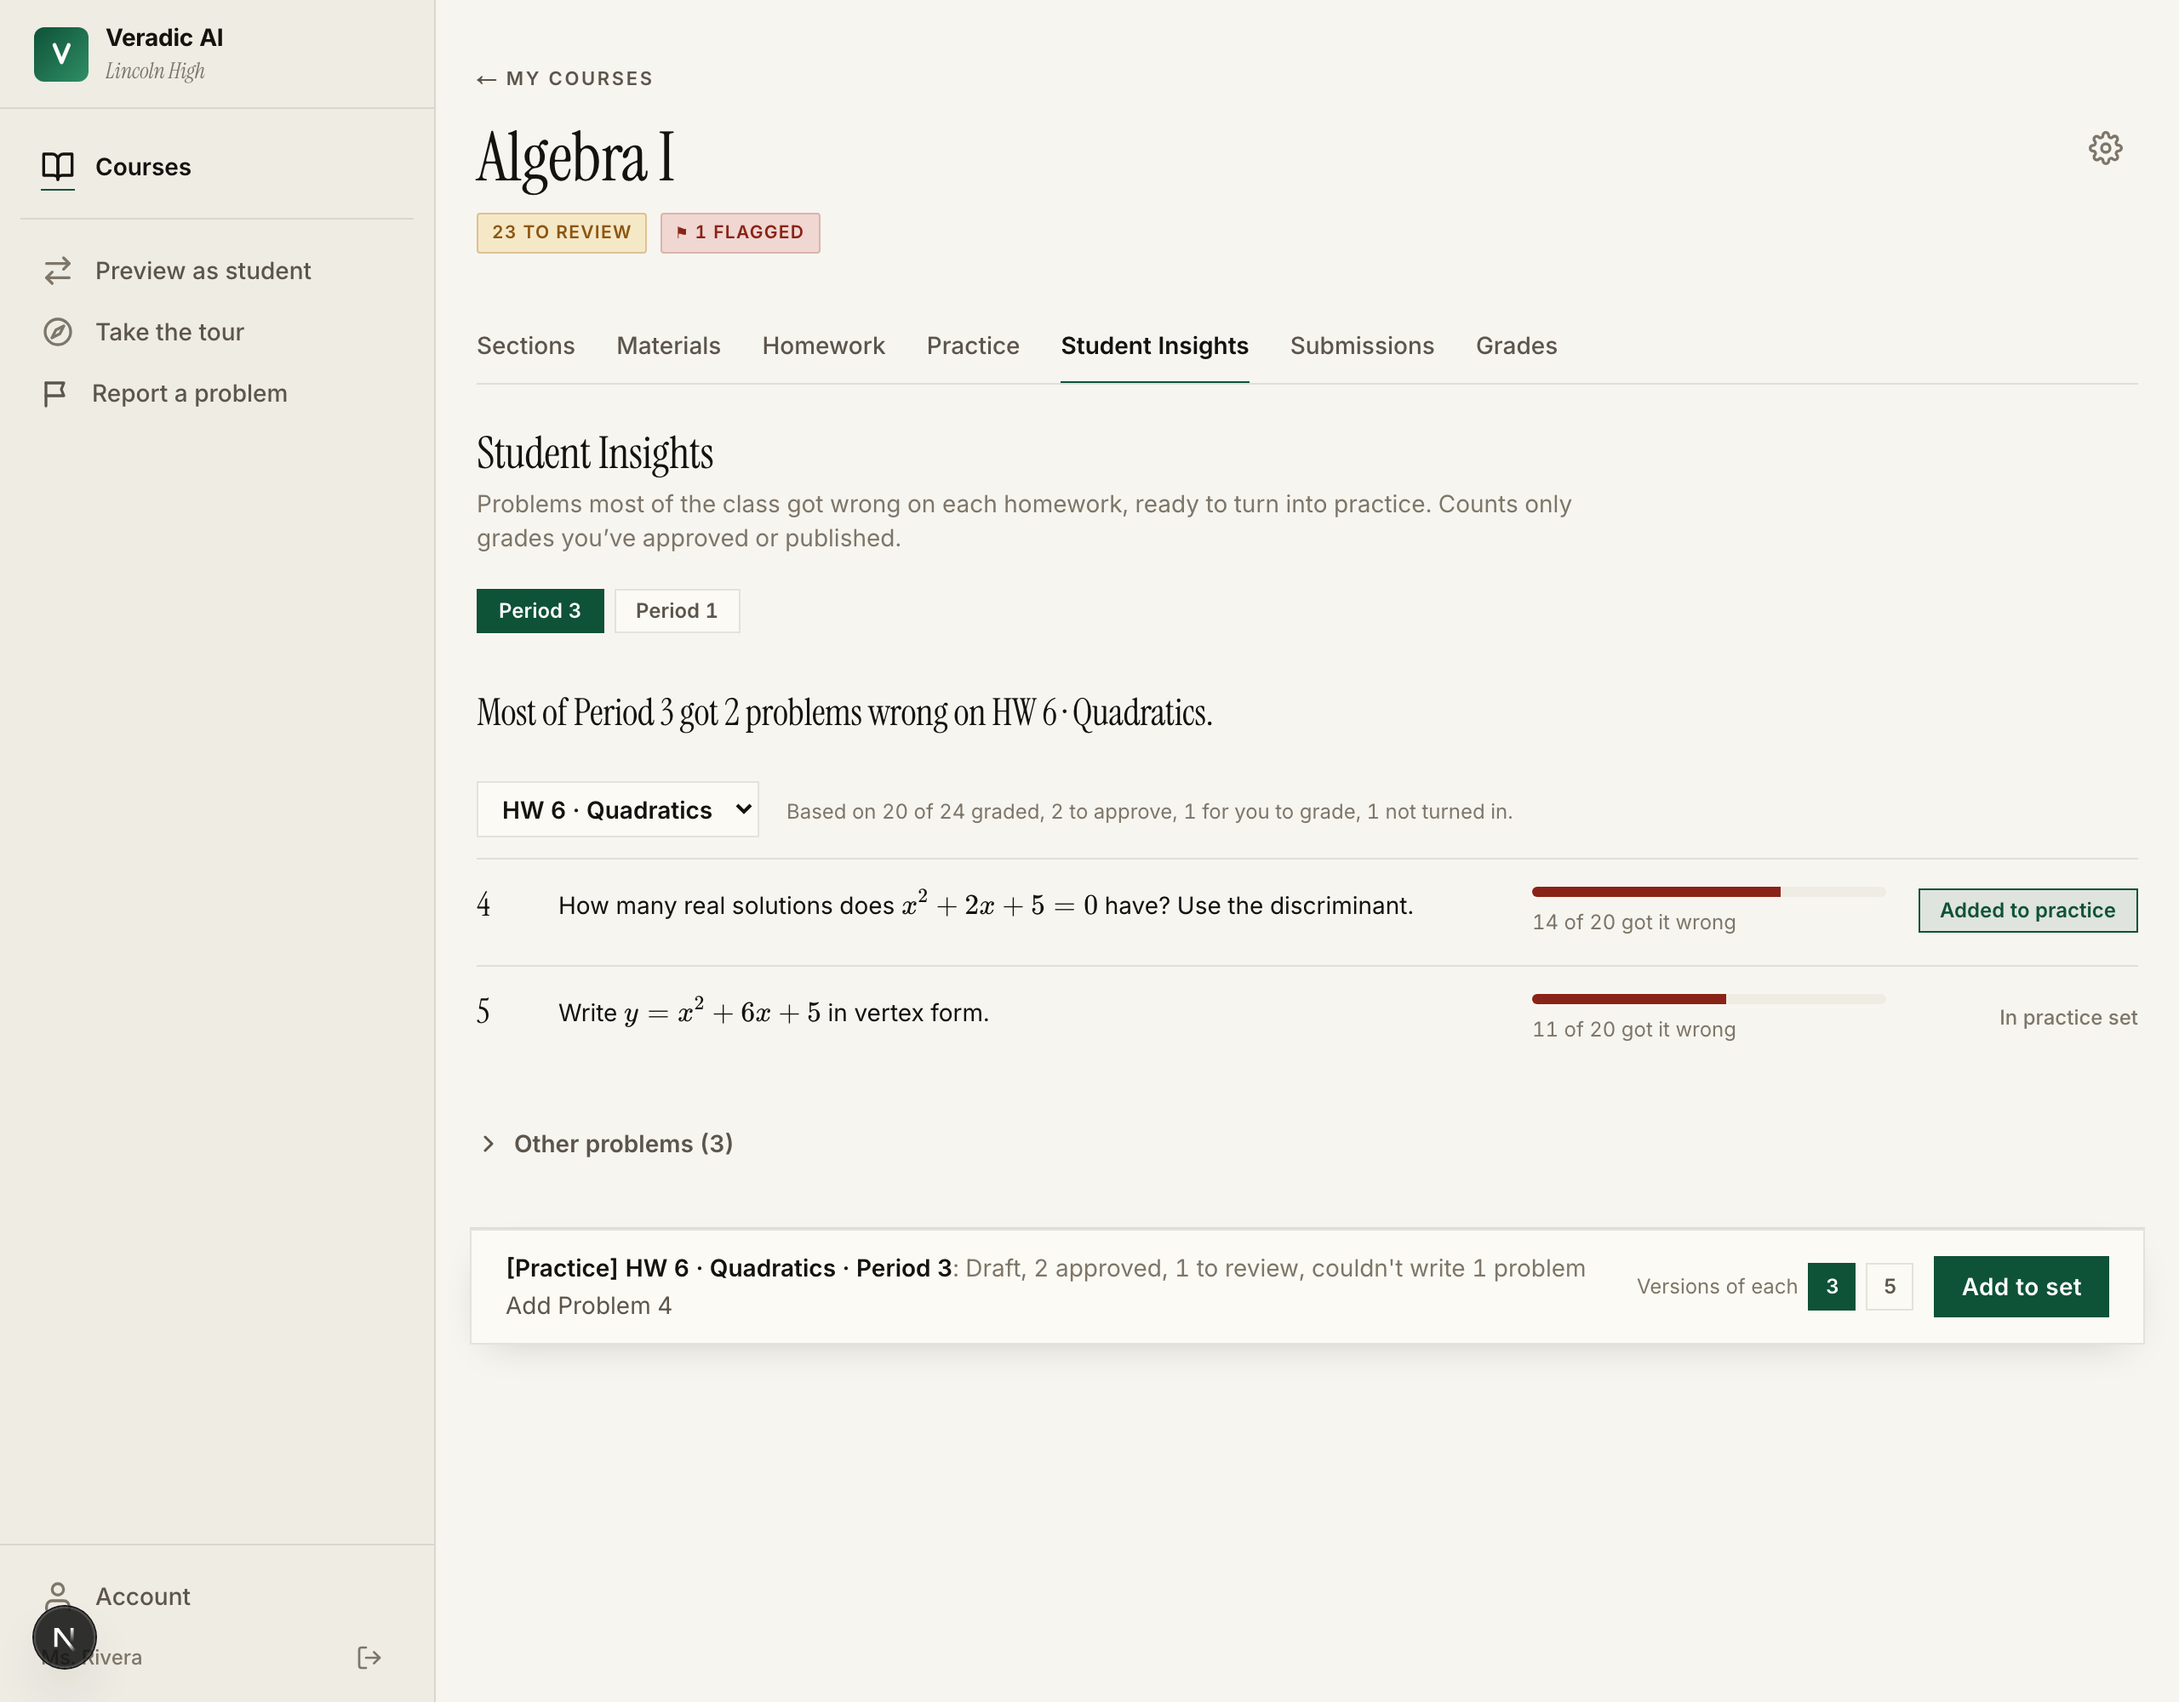
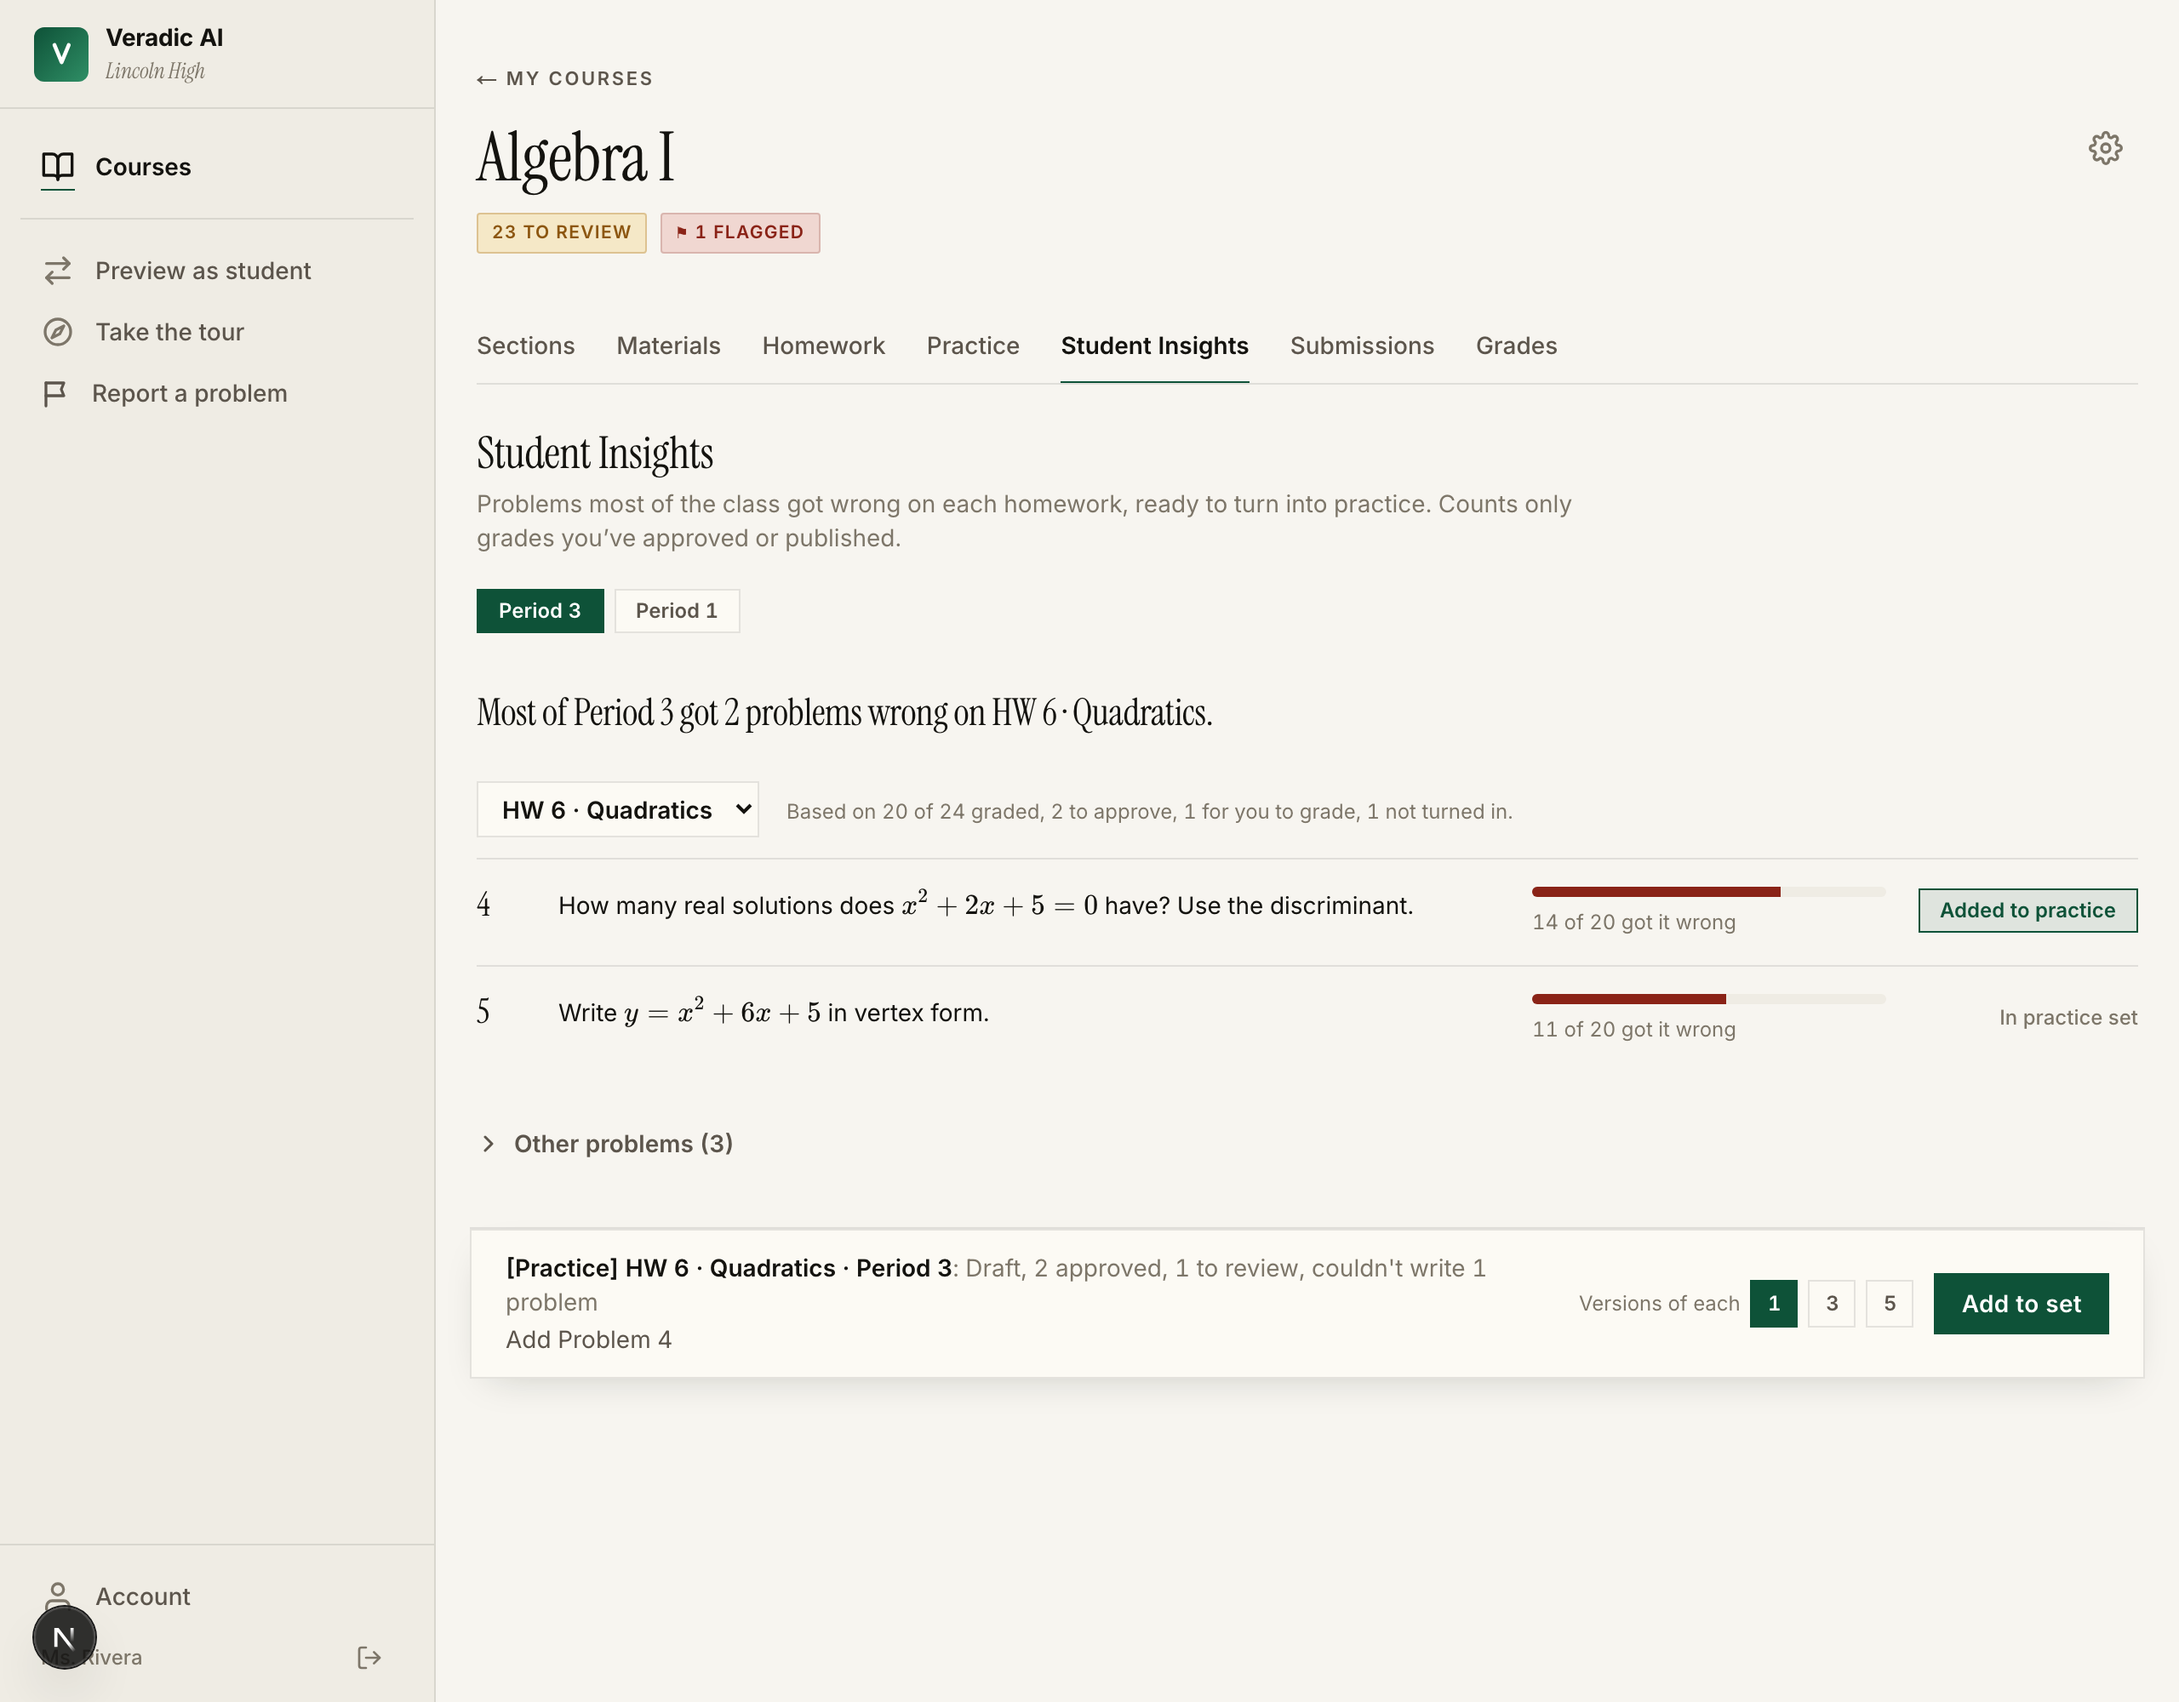
feat(web): Insights writes 1 version per problem by default, like the Practice tab
Choices are now 1, 3 or 5 (was 3 or 5); screenshots re-taken.

Claude-Session: https://claude.ai/code/session_01K2yDeTK5QMAnPZ5zBG8Za9

Changed region(s): [[0.7188, 0.713, 0.9688, 0.806], [0.2188, 0.744, 0.3125, 0.806]]

diff --git a/web/src/components/school/teacher/student-insights-tab.tsx b/web/src/components/school/teacher/student-insights-tab.tsx
@@ -34,9 +34,9 @@ import { useUpgradePrompt } from "@/hooks/use-upgrade-prompt";
  * period, or adds to the set that already exists.
  */
 
-/** Versions written per basketed problem. Each one waits on the
- *  teacher's approval, so the choices stay small. */
-const VERSION_CHOICES = [3, 5] as const;
+/** Versions written per basketed problem — one by default, as in the
+ *  Practice tab. Each one waits on the teacher's approval. */
+const VERSION_CHOICES = [1, 3, 5] as const;
 
 export function StudentInsightsTab({ courseId }: { courseId: string }) {
   const [sections, setSections] = useState<TeacherSection[] | null>(null);
